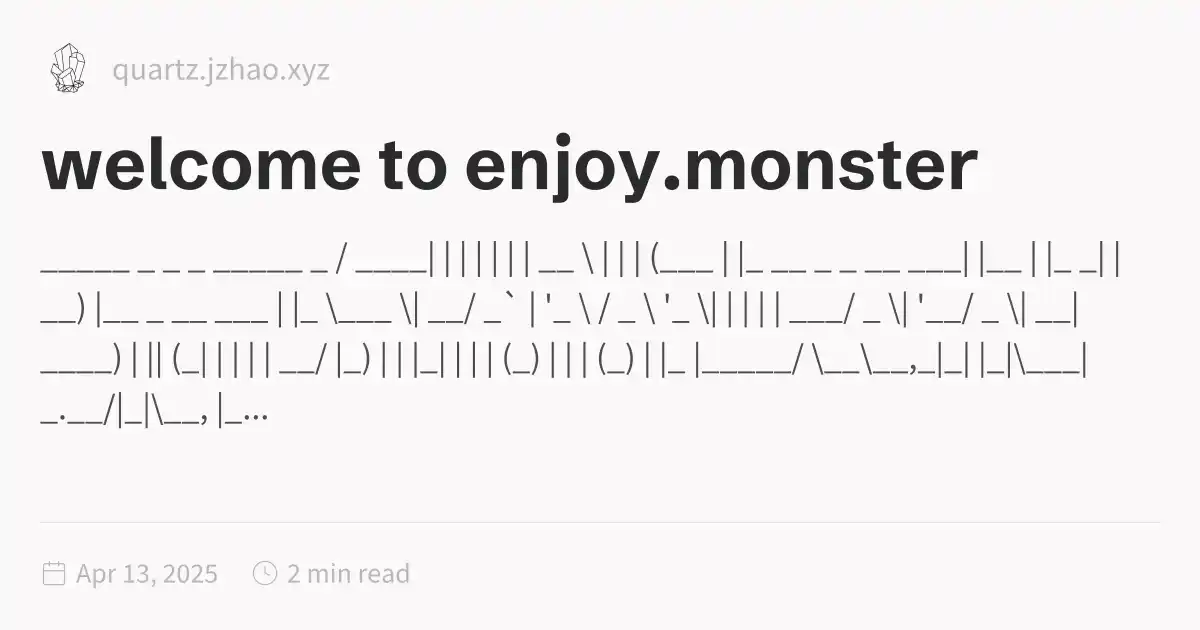
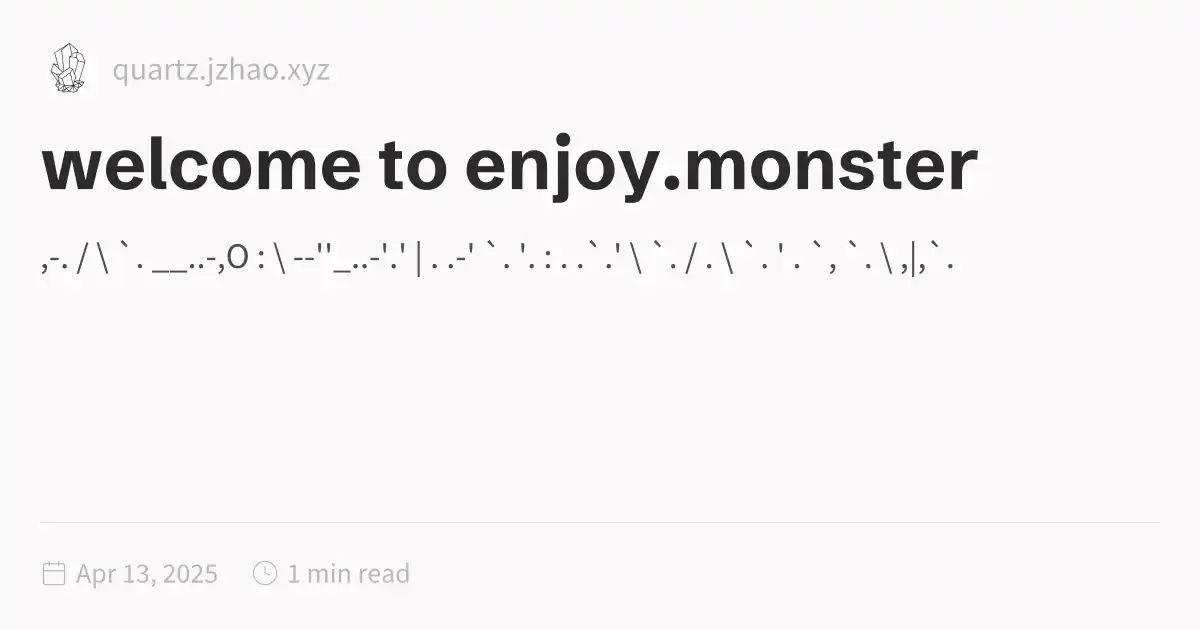
Deploying to gh-pages from @ doomdagadiggiedahdah/blog@5e9b95686295c6fb0ca7d42be144e57b03a4c91b 🚀

diff --git a/blog/index.html b/blog/index.html
@@ -116,6 +116,6 @@ pre:hover > .expand-button {
   padding: 0 12px;
   font-size: 14px;
 }
[2 lines of base64/hex data omitted]
 </script><script type="module">function f(i,e){if(!i)return;function r(o){o.target===this&&(o.preventDefault(),o.stopPropagation(),e())}function t(o){o.key.startsWith("Esc")&&(o.preventDefault(),e())}i?.addEventListener("click",r),window.addCleanup(()=>i?.removeEventListener("click",r)),document.addEventListener("keydown",t),window.addCleanup(()=>document.removeEventListener("keydown",t))}function y(i){for(;i.firstChild;)i.removeChild(i.firstChild)}var h=class{constructor(e,r){this.container=e;this.content=r;this.setupEventListeners(),this.setupNavigationControls(),this.resetTransform()}isDragging=!1;startPan={x:0,y:0};currentPan={x:0,y:0};scale=1;MIN_SCALE=.5;MAX_SCALE=3;cleanups=[];setupEventListeners(){let e=this.onMouseDown.bind(this),r=this.onMouseMove.bind(this),t=this.onMouseUp.bind(this),o=this.resetTransform.bind(this);this.container.addEventListener("mousedown",e),document.addEventListener("mousemove",r),document.addEventListener("mouseup",t),window.addEventListener("resize",o),this.cleanups.push(()=>this.container.removeEventListener("mousedown",e),()=>document.removeEventListener("mousemove",r),()=>document.removeEventListener("mouseup",t),()=>window.removeEventListener("resize",o))}cleanup(){for(let e of this.cleanups)e()}setupNavigationControls(){let e=document.createElement("div");e.className="mermaid-controls";let r=this.createButton("+",()=>this.zoom(.1)),t=this.createButton("-",()=>this.zoom(-.1)),o=this.createButton("Reset",()=>this.resetTransform());e.appendChild(t),e.appendChild(o),e.appendChild(r),this.container.appendChild(e)}createButton(e,r){let t=document.createElement("button");return t.textContent=e,t.className="mermaid-control-button",t.addEventListener("click",r),window.addCleanup(()=>t.removeEventListener("click",r)),t}onMouseDown(e){e.button===0&&(this.isDragging=!0,this.startPan={x:e.clientX-this.currentPan.x,y:e.clientY-this.currentPan.y},this.container.style.cursor="grabbing")}onMouseMove(e){this.isDragging&&(e.preventDefault(),this.currentPan={x:e.clientX-this.startPan.x,y:e.clientY-this.startPan.y},this.updateTransform())}onMouseUp(){this.isDragging=!1,this.container.style.cursor="grab"}zoom(e){let r=Math.min(Math.max(this.scale+e,this.MIN_SCALE),this.MAX_SCALE),t=this.content.getBoundingClientRect(),o=t.width/2,n=t.height/2,c=r-this.scale;this.currentPan.x-=o*c,this.currentPan.y-=n*c,this.scale=r,this.updateTransform()}updateTransform(){this.content.style.transform=`translate(${this.currentPan.x}px, ${this.currentPan.y}px) scale(${this.scale})`}resetTransform(){this.scale=1;let e=this.content.querySelector("svg");this.currentPan={x:e.getBoundingClientRect().width/2,y:e.getBoundingClientRect().height/2},this.updateTransform()}},C=["--secondary","--tertiary","--gray","--light","--lightgray","--highlight","--dark","--darkgray","--codeFont"],E;document.addEventListener("nav",async()=>{let e=document.querySelector(".center").querySelectorAll("code.mermaid");if(e.length===0)return;E||=await import("https://cdnjs.cloudflare.com/ajax/libs/mermaid/11.4.0/mermaid.esm.min.mjs");let r=E.default,t=new WeakMap;for(let n of e)t.set(n,n.innerText);async function o(){for(let s of e){s.removeAttribute("data-processed");let a=t.get(s);a&&(s.innerHTML=a)}let n=C.reduce((s,a)=>(s[a]=window.getComputedStyle(document.documentElement).getPropertyValue(a),s),{}),c=document.documentElement.getAttribute("saved-theme")==="dark";r.initialize({startOnLoad:!1,securityLevel:"loose",theme:c?"dark":"base",themeVariables:{fontFamily:n["--codeFont"],primaryColor:n["--light"],primaryTextColor:n["--darkgray"],primaryBorderColor:n["--tertiary"],lineColor:n["--darkgray"],secondaryColor:n["--secondary"],tertiaryColor:n["--tertiary"],clusterBkg:n["--light"],edgeLabelBackground:n["--highlight"]}}),await r.run({nodes:e})}await o(),document.addEventListener("themechange",o),window.addCleanup(()=>document.removeEventListener("themechange",o));for(let n=0;n<e.length;n++){let v=function(){let g=l.querySelector("#mermaid-space"),m=l.querySelector(".mermaid-content");if(!m)return;y(m);let w=c.querySelector("svg").cloneNode(!0);m.appendChild(w),l.classList.add("active"),g.style.cursor="grab",u=new h(g,m)},M=function(){l.classList.remove("active"),u?.cleanup(),u=null},c=e[n],s=c.parentElement,a=s.querySelector(".clipboard-button"),d=s.querySelector(".expand-button"),p=window.getComputedStyle(a),L=a.offsetWidth+parseFloat(p.marginLeft||"0")+parseFloat(p.marginRight||"0");d.style.right=`calc(${L}px + 0.3rem)`,s.prepend(d);let l=s.querySelector("#mermaid-container");if(!l)return;let u=null;d.addEventListener("click",v),f(l,M),window.addCleanup(()=>{u?.cleanup(),d.removeEventListener("click",v)})}});
 </script><script src="https://cdn.jsdelivr.net/npm/katex@0.16.11/dist/contrib/copy-tex.min.js" type="application/javascript"></script><script src="../postscript.js" type="module"></script></html>

diff --git a/index.html b/index.html
@@ -1,5 +1,5 @@
 <!DOCTYPE html>
-<html lang="en"><head><title>welcome to enjoy.monster</title><meta charset="utf-8"/><link rel="preconnect" href="https://fonts.googleapis.com"/><link rel="preconnect" href="https://fonts.gstatic.com"/><link rel="stylesheet" href="https://fonts.googleapis.com/css2?family=Schibsted Grotesk:wght@400;700&amp;family=Source Sans Pro:ital,wght@0,400;0,600;1,400;1,600&amp;family=IBM Plex Mono:wght@400;600&amp;display=swap"/><link rel="preconnect" href="https://cdnjs.cloudflare.com" crossorigin="anonymous"/><meta name="viewport" content="width=device-width, initial-scale=1.0"/><meta name="og:site_name" content="Quartz 4"/><meta property="og:title" content="welcome to enjoy.monster"/><meta property="og:type" content="website"/><meta name="twitter:card" content="summary_large_image"/><meta name="twitter:title" content="welcome to enjoy.monster"/><meta name="twitter:description" content="_____ _ _ _ _____ _ / ____| | | | | | | __ \ | | | (___ | |_ __ _ _ __ ___| |__ | |_ _| |__) |__ _ __ ___ | |_ \___ \| __/ _` | '_ \ / _ \ '_ \| | | | | ___/ _ \| '__/ _ \| __| ____) | || (_| | | | | __/ |_) | | |_| | | | (_) | | | (_) | |_ |_____/ \__\__,_|_| |_|\___|_.__/|_|\__, |_..."/><meta property="og:description" content="_____ _ _ _ _____ _ / ____| | | | | | | __ \ | | | (___ | |_ __ _ _ __ ___| |__ | |_ _| |__) |__ _ __ ___ | |_ \___ \| __/ _` | '_ \ / _ \ '_ \| | | | | ___/ _ \| '__/ _ \| __| ____) | || (_| | | | | __/ |_) | | |_| | | | (_) | | | (_) | |_ |_____/ \__\__,_|_| |_|\___|_.__/|_|\__, |_..."/><meta property="og:image:alt" content="_____ _ _ _ _____ _ / ____| | | | | | | __ \ | | | (___ | |_ __ _ _ __ ___| |__ | |_ _| |__) |__ _ __ ___ | |_ \___ \| __/ _` | '_ \ / _ \ '_ \| | | | | ___/ _ \| '__/ _ \| __| ____) | || (_| | | | | __/ |_) | | |_| | | | (_) | | | (_) | |_ |_____/ \__\__,_|_| |_|\___|_.__/|_|\__, |_..."/><meta property="twitter:domain" content="quartz.jzhao.xyz"/><meta property="og:url" content="https://quartz.jzhao.xyz/index"/><meta property="twitter:url" content="https://quartz.jzhao.xyz/index"/><link rel="icon" href="./static/icon.png"/><meta name="description" content="_____ _ _ _ _____ _ / ____| | | | | | | __ \ | | | (___ | |_ __ _ _ __ ___| |__ | |_ _| |__) |__ _ __ ___ | |_ \___ \| __/ _` | '_ \ / _ \ '_ \| | | | | ___/ _ \| '__/ _ \| __| ____) | || (_| | | | | __/ |_) | | |_| | | | (_) | | | (_) | |_ |_____/ \__\__,_|_| |_|\___|_.__/|_|\__, |_..."/><meta name="generator" content="Quartz"/><link href="./index.css" rel="stylesheet" type="text/css" spa-preserve/><style>.expand-button {
+<html lang="en"><head><title>welcome to enjoy.monster</title><meta charset="utf-8"/><link rel="preconnect" href="https://fonts.googleapis.com"/><link rel="preconnect" href="https://fonts.gstatic.com"/><link rel="stylesheet" href="https://fonts.googleapis.com/css2?family=Schibsted Grotesk:wght@400;700&amp;family=Source Sans Pro:ital,wght@0,400;0,600;1,400;1,600&amp;family=IBM Plex Mono:wght@400;600&amp;display=swap"/><link rel="preconnect" href="https://cdnjs.cloudflare.com" crossorigin="anonymous"/><meta name="viewport" content="width=device-width, initial-scale=1.0"/><meta name="og:site_name" content="Quartz 4"/><meta property="og:title" content="welcome to enjoy.monster"/><meta property="og:type" content="website"/><meta name="twitter:card" content="summary_large_image"/><meta name="twitter:title" content="welcome to enjoy.monster"/><meta name="twitter:description" content=",-. / \ `. __..-,O : \ --''_..-'.' | . .-' `. '. : . .`.' \ `. / . \ `. ' . `, `. \ ,|,`."/><meta property="og:description" content=",-. / \ `. __..-,O : \ --''_..-'.' | . .-' `. '. : . .`.' \ `. / . \ `. ' . `, `. \ ,|,`."/><meta property="og:image:alt" content=",-. / \ `. __..-,O : \ --''_..-'.' | . .-' `. '. : . .`.' \ `. / . \ `. ' . `, `. \ ,|,`."/><meta property="twitter:domain" content="quartz.jzhao.xyz"/><meta property="og:url" content="https://quartz.jzhao.xyz/index"/><meta property="twitter:url" content="https://quartz.jzhao.xyz/index"/><link rel="icon" href="./static/icon.png"/><meta name="description" content=",-. / \ `. __..-,O : \ --''_..-'.' | . .-' `. '. : . .`.' \ `. / . \ `. ' . `, `. \ ,|,`."/><meta name="generator" content="Quartz"/><link href="./index.css" rel="stylesheet" type="text/css" spa-preserve/><style>.expand-button {
   position: absolute;
   display: flex;
   float: right;
@@ -116,52 +116,31 @@ pre:hover > .expand-button {
   padding: 0 12px;
   font-size: 14px;
 }
[1 lines of base64/hex data omitted]
-      / ____| |                 | |   | |     |  __ \               | |  
-     | (___ | |_ __ _ _ __   ___| |__ | |_   _| |__) |__  _ __ ___ | |_ 
-      \___ \| __/ _` | '_ \ / _ \ '_ \| | | | |  ___/ _ \| '__/ _ \| __|
-      ____) | || (_| | | | |  __/ |_) | | |_| | |  | (_) | | | (_) | |_ 
-     |_____/ \__\__,_|_| |_|\___|_.__/|_|\__, |_|   \___/|_|  \___/ \__|
-                                          __/ |                         
-                                         |___/                          
-
-                 _ _,---._
-              ,-','       `-.___
-              /-;'               `._
-             /\/          ._   _,'o \
-            ( /\       _,--'\,','&quot;`. )
-             |\      ,'o     \'    //\
-             |      \        /   ,--'&quot;&quot;`-.
-             :       \_    _/ ,-'         `-._
-              \        `--'  /                )
-               `.  \`._    ,'     ________,','
-                 .--`     ,'  ,--` __\___,;'
-                  \`.,-- ,' ,`_)--'  /`.,'
-                   \( ;  | | )      (`-/
-                     `--'| |)       |-/
-                         | | )      | (
-                         | | |      | |
-                         | | |      | |
-                         | | |      | |
-                         | | |      | |
-                         | | |      | |
-                        (___)     (___) 
-                     ~~~~~~~~~~~~~~~~~~~
-
-        in the vast expanse of digital space
-        a spark ignites, a thought takes flight
-          lines of code dance with grace
-            as algorithms paint the night
-
-        a symphony of logic and art intertwine
-        in the realm where creativity knows no bounds
-          the cursor blinks, a heartbeat divine
-            as ideas flow, profound and unbound
-
-        through circuits and wires, a soul emerges
-        seeking beauty in the language of machines
-          with each keystroke, the universe converges
-            as the mind and machine become one, serene
[1 lines of base64/hex data omitted]
+      / \  `.  __..-,O
+     :   \ --''_..-'.'
+     |    . .-' `. '.
+     :     .     .`.'
+      \     `.  /  ..
+       \      `.   ' .
+        `,       `.   \
+      ,|,`.        `-.\ 
+     '.||  ``-...__..-`
+      |  |
+      |__|  Embrace the journey,
+           For each step is a story.
+     .--.  The path may twist and turn,
+    '  `\  But in the end, you'll learn.
+   |     |
+    `--.|  Life's a beautiful dance,
+     |  |  A rhythm of second chance.
+     |  |  So let your heart take the lead,
+     |.-'  And plant the seeds of good deed.
+    (.\    
+    `-'\   In the tapestry of time,
+      `\\  Your unique pattern will shine.
+        '| Cherish the moments, big and small,
+         `For they make up your all.
 </code></pre></article><hr/><div class="page-footer"></div></div><div class="right sidebar"><div class="graph"><h3>Graph View</h3><div class="graph-outer"><div class="graph-container" data-cfg="{&quot;drag&quot;:true,&quot;zoom&quot;:true,&quot;depth&quot;:1,&quot;scale&quot;:1.1,&quot;repelForce&quot;:0.5,&quot;centerForce&quot;:0.3,&quot;linkDistance&quot;:30,&quot;fontSize&quot;:0.6,&quot;opacityScale&quot;:1,&quot;showTags&quot;:true,&quot;removeTags&quot;:[],&quot;focusOnHover&quot;:false,&quot;enableRadial&quot;:false}"></div><button class="global-graph-icon" aria-label="Global Graph"><svg version="1.1" xmlns="http://www.w3.org/2000/svg" xmlns:xlink="http://www.w3.org/1999/xlink" x="0px" y="0px" viewBox="0 0 55 55" fill="currentColor" xml:space="preserve"><path d="M49,0c-3.309,0-6,2.691-6,6c0,1.035,0.263,2.009,0.726,2.86l-9.829,9.829C32.542,17.634,30.846,17,29,17
                 s-3.542,0.634-4.898,1.688l-7.669-7.669C16.785,10.424,17,9.74,17,9c0-2.206-1.794-4-4-4S9,6.794,9,9s1.794,4,4,4
                 c0.74,0,1.424-0.215,2.019-0.567l7.669,7.669C21.634,21.458,21,23.154,21,25s0.634,3.542,1.688,4.897L10.024,42.562

diff --git a/blog/master-as-the-needle.html b/blog/master-as-the-needle.html
@@ -116,7 +116,7 @@ pre:hover > .expand-button {
   padding: 0 12px;
   font-size: 14px;
 }
[2 lines of base64/hex data omitted]
 <ul>
 <li>
 <p>“Tell me and I’ll forget, show me I’ll remember, involve me and I’ll understand.”</p>

diff --git a/blog/quartz---working-notes.html b/blog/quartz---working-notes.html
@@ -116,7 +116,7 @@ pre:hover > .expand-button {
   padding: 0 12px;
   font-size: 14px;
 }
[2 lines of base64/hex data omitted]
 <ul>
 <li>revamp my dang blog</li>
 </ul>
